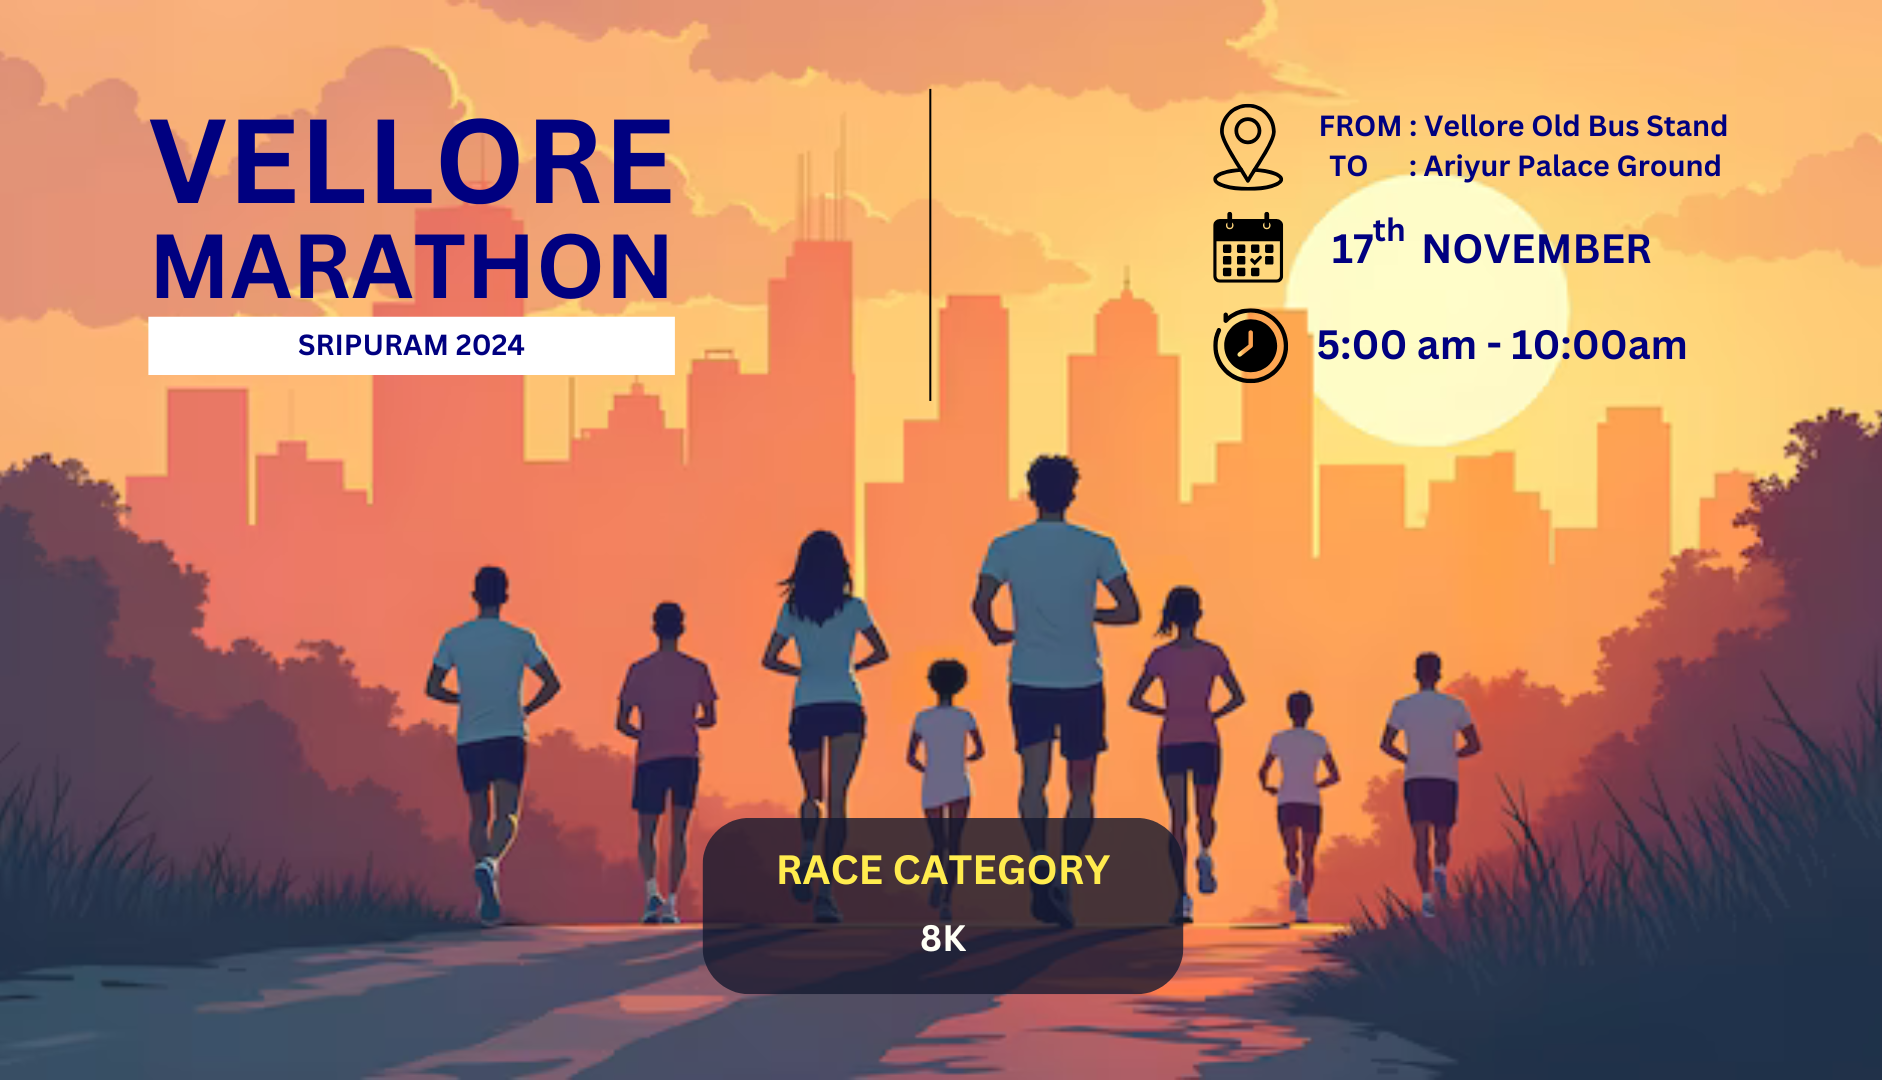
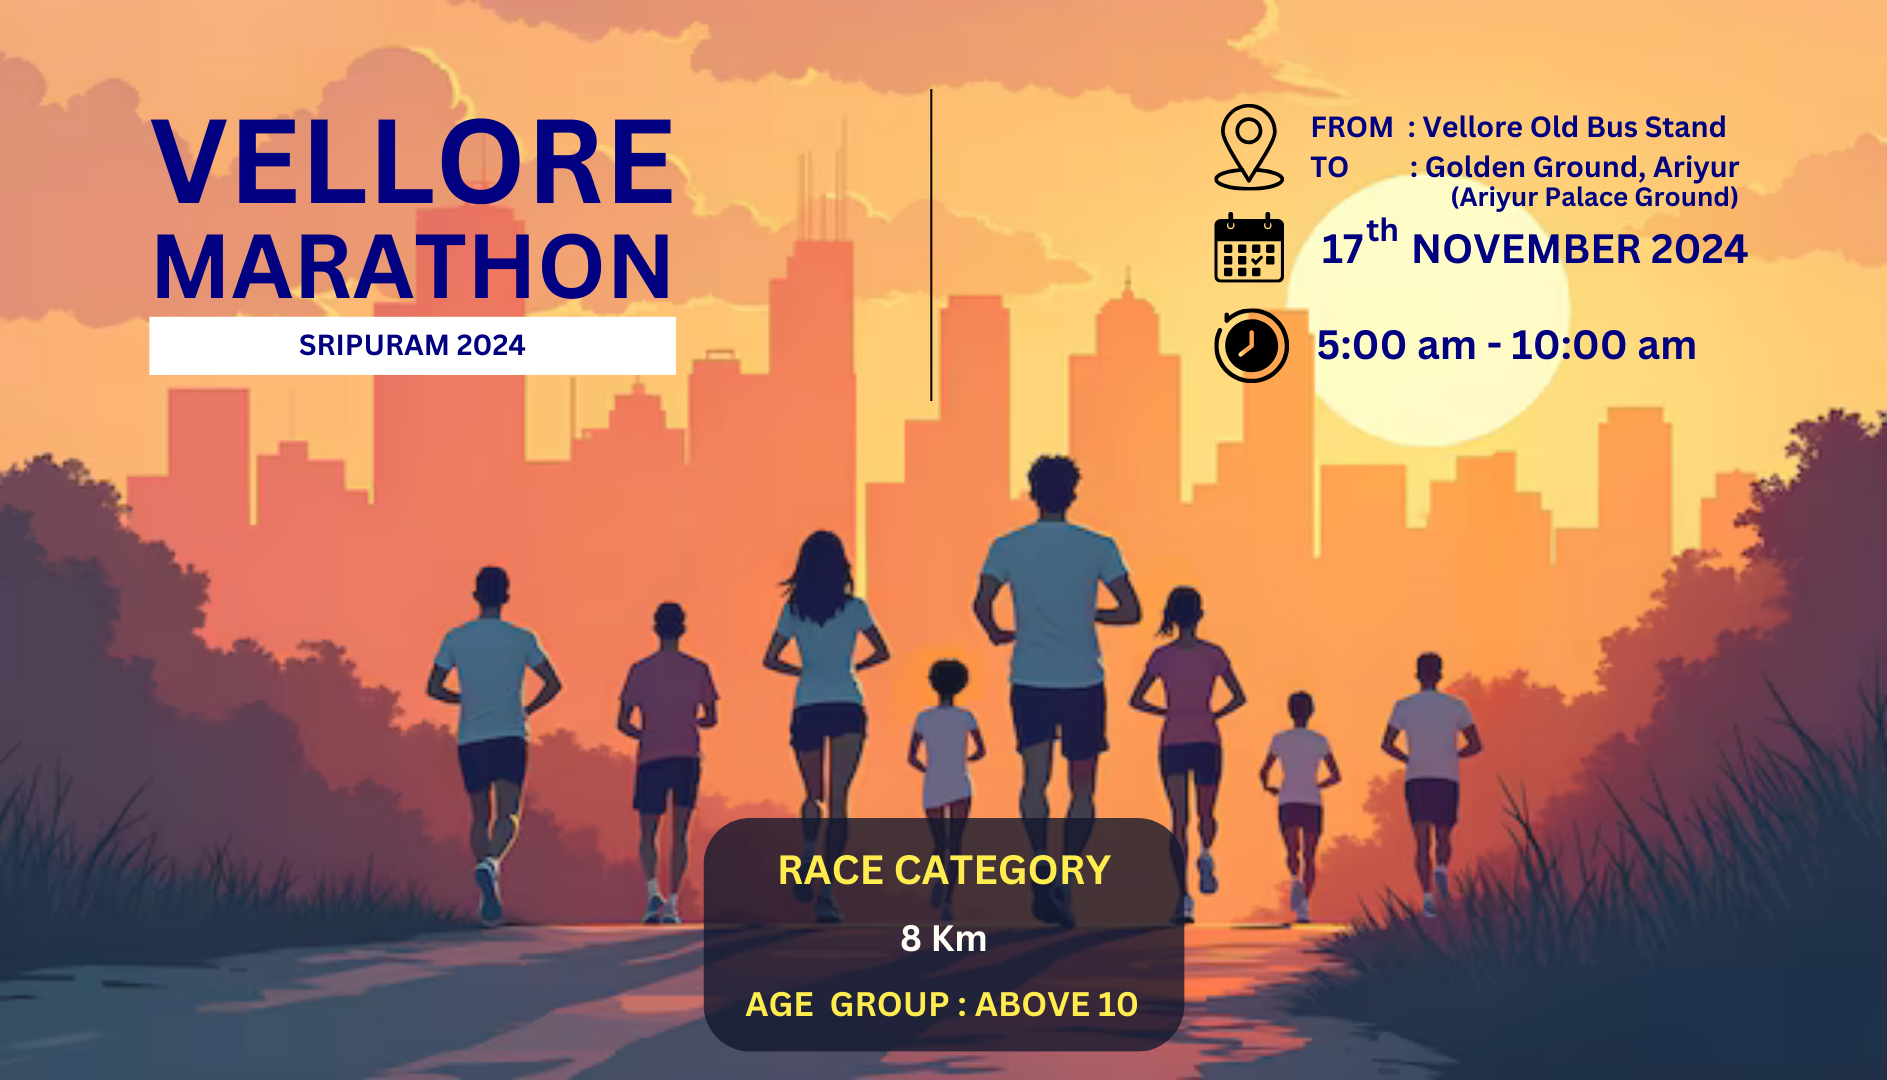
final

diff --git a/src/Pages/RaceCategory.jsx b/src/Pages/RaceCategory.jsx
@@ -5,22 +5,22 @@ import logo from '../assets/logo.png';
 const RaceCategory = () => {
   return (
     <div className="race-category">
-      <p className="no-fee-notice"><strong>Registration is free for the first 1000 members. After that, a fee of ₹200 will apply.</strong></p>
-      <h2 className="race-title">Race Categories</h2>
+      <p className="no-fee-notice"><strong>Registration is free</strong></p>
+      <h2 className="race-title">Race Categories <br></br> (AGE : ABOVE 10)</h2>
       <div className="race-wrapper">
         <div className="category-card">
           <img src={logo} alt="Marathon Logo" className="category-logo" />
           <div className="category-text">
-            <h3 className="category-title">8K men's Category</h3>
+            <h3 className="category-title">8K<span style={{textTransform:"lowercase"}}>m</span> men's Category</h3>
             <p className="category-description">
-            Take a stand against child abuse by joining the Men's 8K Marathon. Your participation helps raise awareness and support for a vital cause! Together, we can make a meaningful difference in the lives of children in need.</p>          </div>
+            Take a stand against drug abuse by joining the Men's 8Km Marathon. Your participation helps raise awareness and support for a vital cause! Together, we can make a meaningful difference in promoting a drug-free future for our communities and protecting the lives of those at risk.</p>          </div>
         </div>
         <div className="category-card">
           <img src={logo} alt="Marathon Logo" className="category-logo" />
           <div className="category-text">
-            <h3 className="category-title">8K Women's & Children's(age:10-15)</h3>
+            <h3 className="category-title">8K<span style={{textTransform:"lowercase"}}>m</span> Women's & Children's(age:10-15)</h3>
             <p className="category-description">
-            Run for a brighter future at the 8K Women's & Children's Marathon. Together, we empower the next generation to speak out against child abuse!            </p>
+            Run for a brighter future at the 8Km Women's & Children's Marathon. Together, we empower the next generation to speak out against drug abuse and build a healthier, drug-free future!         </p>
           </div>
         </div>
       </div>

diff --git a/src/Pages/AboutMarathon.jsx b/src/Pages/AboutMarathon.jsx
@@ -14,7 +14,7 @@ const AboutMarathon = () => {
           <p>
           <b>ALAMA ABACUS</b>, established in 2009, has been dedicated to nurturing students' mental math abilities across Tamil Nadu. Over the years, they have successfully helped students enhance their calculation speed and cognitive skills through specialized abacus training.           </p>
           <p>
-          Recognizing their long-standing interaction with young learners, Alama Abacus took a step further by raising awareness on child abuse, aiming to create a safe environment for children. By integrating educational growth with social responsibility, Alama Abacus not only focuses on academic excellence but also on the overall well-being and protection of the students they serve.          </p>
+          Recognizing their long-standing interaction with young learners, Alama Abacus took a step further by raising awareness about drug abuse, aiming to create a safe and healthy environment for children. By integrating educational growth with social responsibility, Alama Abacus not only focuses on academic excellence but also on promoting the overall well-being and protection of the students they serve, encouraging them to lead drug-free lives.  </p>
         </div>
       </div>
     </div>

diff --git a/src/Pages/AboutDirector.jsx b/src/Pages/AboutDirector.jsx
@@ -12,7 +12,7 @@ const AboutDirector = () => {
           <h6 style={{marginTop:"-3%"}}>Trustee & Director</h6>
           <p>
           Dr. M. Suresh Babu has devoted over 30 years to dedicated service, emulating the
-exemplary path of Gnana Guru Sri Sakthi Amma. His leadership and contributions
+exemplary path of our beloved Sri Sakthi Amma. His leadership and contributions
 have made a significant and lasting impact on education, social welfare, and
 spiritual well-being.              </p>
           <p>
@@ -20,7 +20,7 @@ spiritual well-being.              </p>
 Sakthi Amma Educational Trust (Sri Narayani Schools), Sri Sakthi Amma Tribal
 Welfare Trust, and Sri Sakthi Amma Ancient and Holistic Health Care Trust.
 In celebration of his birthday on November 21, 2024, a grand marathon is being
-organized to honor his dedication to health, well-being, and community spirit                </p>
+organized to honor his dedication to health, well-being, and community spirit.                </p>
         </div>
         <div className="director-image">
           <img src={directorImage} style={{borderRadius:"20px 0px 30px 20px"}} alt="Director" />

diff --git a/src/Pages/AnotherLogo.jsx b/src/Pages/AnotherLogo.jsx
@@ -3,6 +3,7 @@ import styled from 'styled-components';
 
 import logo1 from '../assets/bodhi.png';
 import logo2 from '../assets/sky.png'; 
+import logo3 from '../assets/hyd.png'; 
 
 const SponsorContainer = styled.div`
   text-align: center;
@@ -73,6 +74,10 @@ const AnotherLogo = () => {
   return (
     <SponsorContainer>
       <SponsorLogos>
+        <SponsorItem>
+          <SponsorTitle>Hydration Partner</SponsorTitle>
+          <SponsorLogo src={logo3} alt="Website Sponsor Logo" />
+        </SponsorItem>
         <SponsorItem>
           <SponsorTitle>Media Partner</SponsorTitle>
           <SponsorLogo src={logo2} alt="Website Sponsor Logo" />

diff --git a/src/Pages/Footer.jsx b/src/Pages/Footer.jsx
@@ -11,7 +11,8 @@ const Footer = () => {
           <p><FaMapMarkerAlt /> No: 1A TKT Complex, Krishna Nagar, Vellore 632 001, TAMILNADU</p>
           <div style={{display:"flex", gap:"20px"}}>
           <p className="footer-phone"><FaPhoneAlt /> <a href="tel:7092377999">70923 77999</a></p>
-          <p className="footer-phone"><FaPhoneAlt /> <a href="tel:7092377999">0416 - 2226009</a></p>
+          <p className="footer-phone"><FaPhoneAlt /> <a href="tel:9344435111">93444 35111</a></p>
+          <p className="footer-phone"><FaPhoneAlt /> <a href="tel:7092377999">86789 51928</a></p>
           </div>
         </div>
       </div>

diff --git a/src/Pages/Sponsors.jsx b/src/Pages/Sponsors.jsx
@@ -3,13 +3,14 @@ import './Sponsors.css'; // CSS file for styling
 import sponsor1 from '../assets/cs1.png';
 import sponsor2 from '../assets/cs2.png';
 import sponsor3 from '../assets/cs3.png';
-import sponsor4 from '../assets/cs4.png';
+import sponsor4 from '../assets/tslogo2.png';
 import sponsor5 from '../assets/arteg.png';
 import sponsor6 from '../assets/cs6.png';
 import sponsor7 from '../assets/sri.png';
 
 const Sponsors = () => {
   const sponsors = [
+    { src: sponsor4, alt: '' },
     { src: sponsor7, alt: '' },
     { src: sponsor6, alt: '' },
     { src: sponsor2, alt: '', special: true },

diff --git a/src/Pages/SpiritualLeader.jsx b/src/Pages/SpiritualLeader.jsx
@@ -8,7 +8,7 @@ const SpiritualLeader = () => {
       <img src={gnyaguruImage} alt="Gnyaguru Sri Sakti Amma" className="leader-image" />
       <div className="text-container">
         <p className="blessing-text">With the Divine Blessings of</p>
-        <p className="blessing-text">Beloved</p>
+        <p className="blessing-text">Our Beloved</p>
         <h2 className="leader-title">SRI SAKTHI AMMA</h2>
         <p className="leader-description">
         Sri Sakthi Amma embodies divine grace, radiating wisdom and compassion.

diff --git a/src/Pages/PartnerSection.jsx b/src/Pages/PartnerSection.jsx
@@ -3,7 +3,7 @@ import "./PartnerSection.css";
 
 // Import images for each partner
 import healthCarePartnerLogo from '../assets/school1.webp';
-import radioPartnerLogo from '../assets/hellofm.jpg';
+import radioPartnerLogo from '../assets/hellofm.png';
 import mediaPartnerLogo from '../assets/cs3.png';
 
 const PartnerSection = () => {

diff --git a/src/Pages/TitleSponsor.jsx b/src/Pages/TitleSponsor.jsx
@@ -2,7 +2,7 @@ import React from 'react';
 import './TitleSponsor.css'; // Importing the CSS file
 
 // Import the logos
-import logo1 from '../assets/ts1.png';
+import logo1 from '../assets/agarwal.png';
 import logo2 from '../assets/ts2.png'
 const TitleSponsor = () => {
   return (

diff --git a/src/Pages/TitleSponsor.css b/src/Pages/TitleSponsor.css
@@ -75,7 +75,7 @@
     }
   
     .sponsor-logo {
-      max-width: 120px;
+      max-width: 190px;
     }
   }
   
